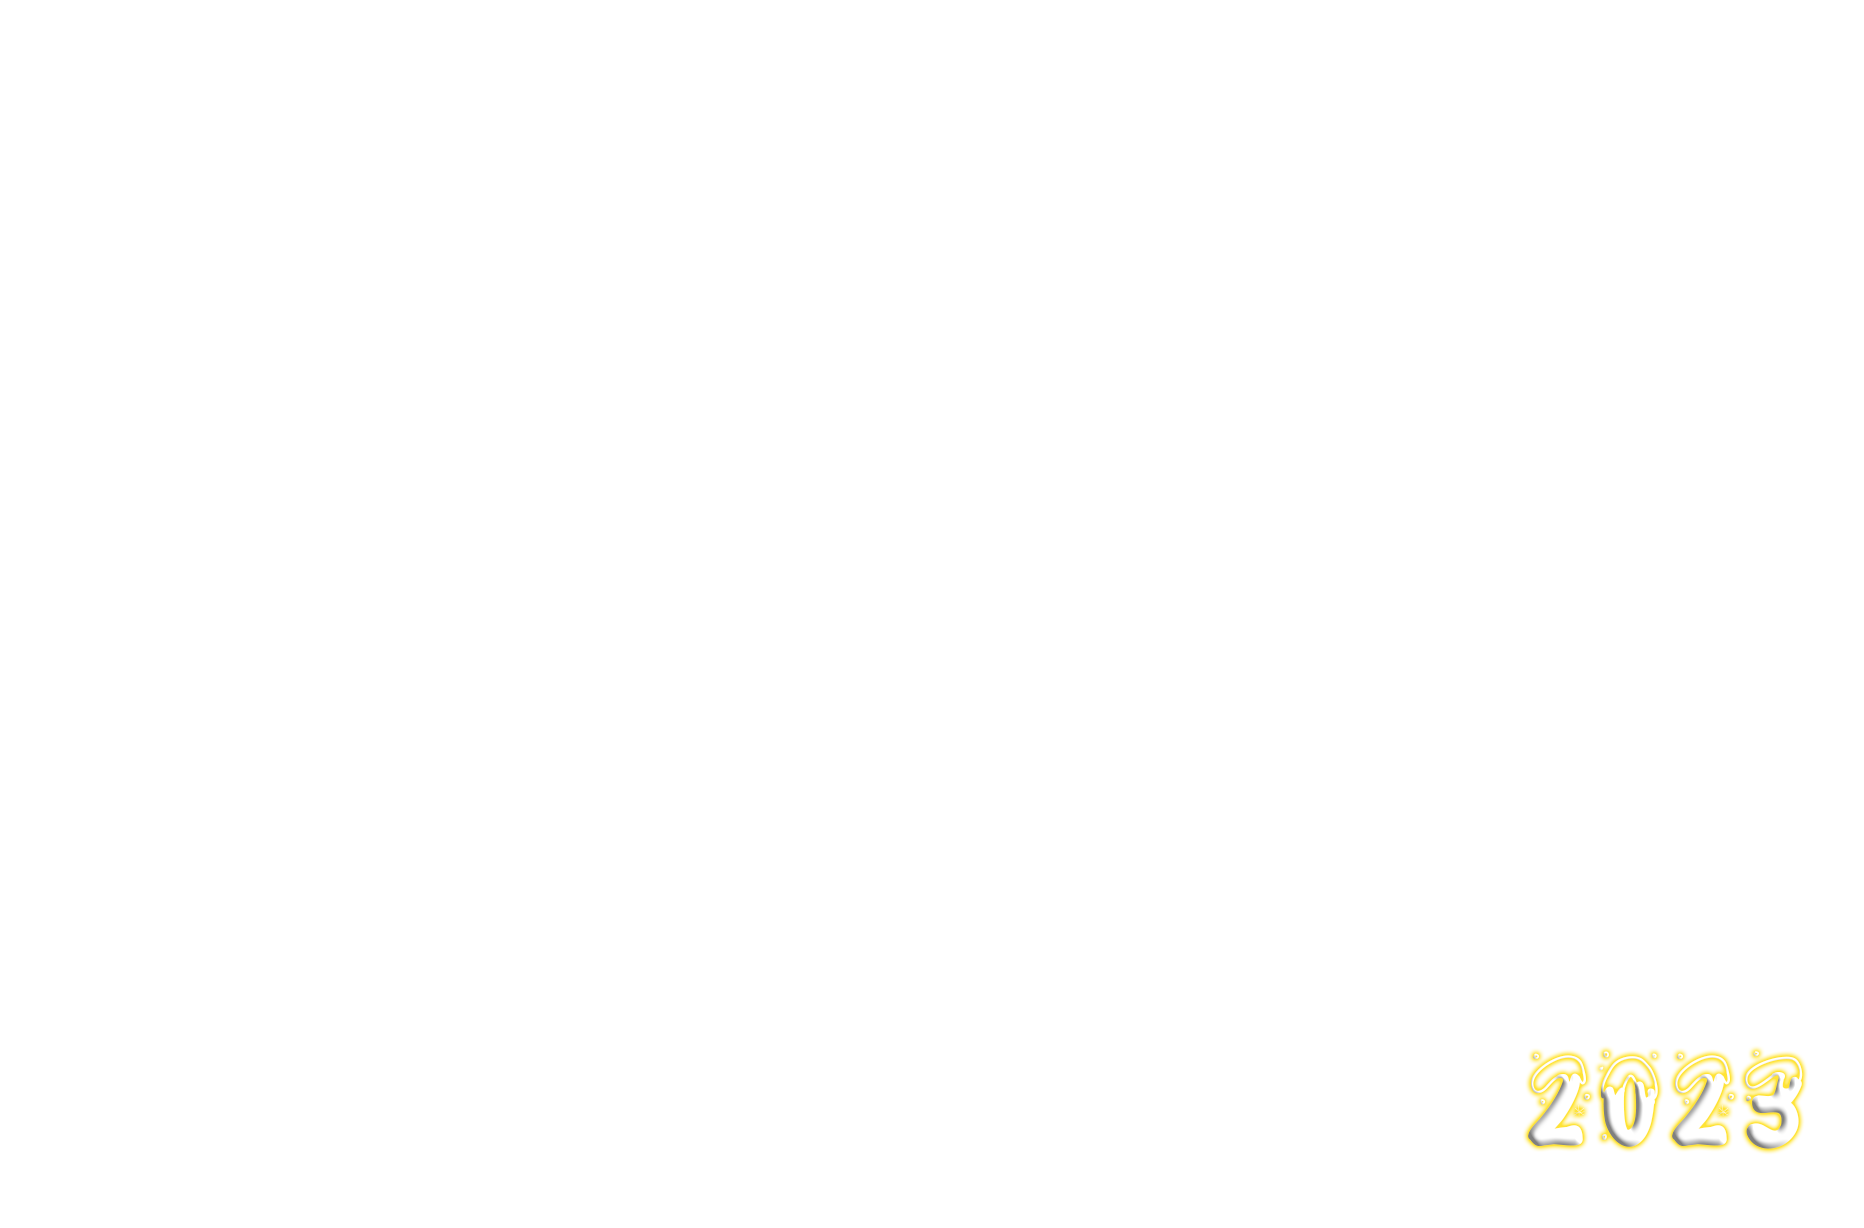
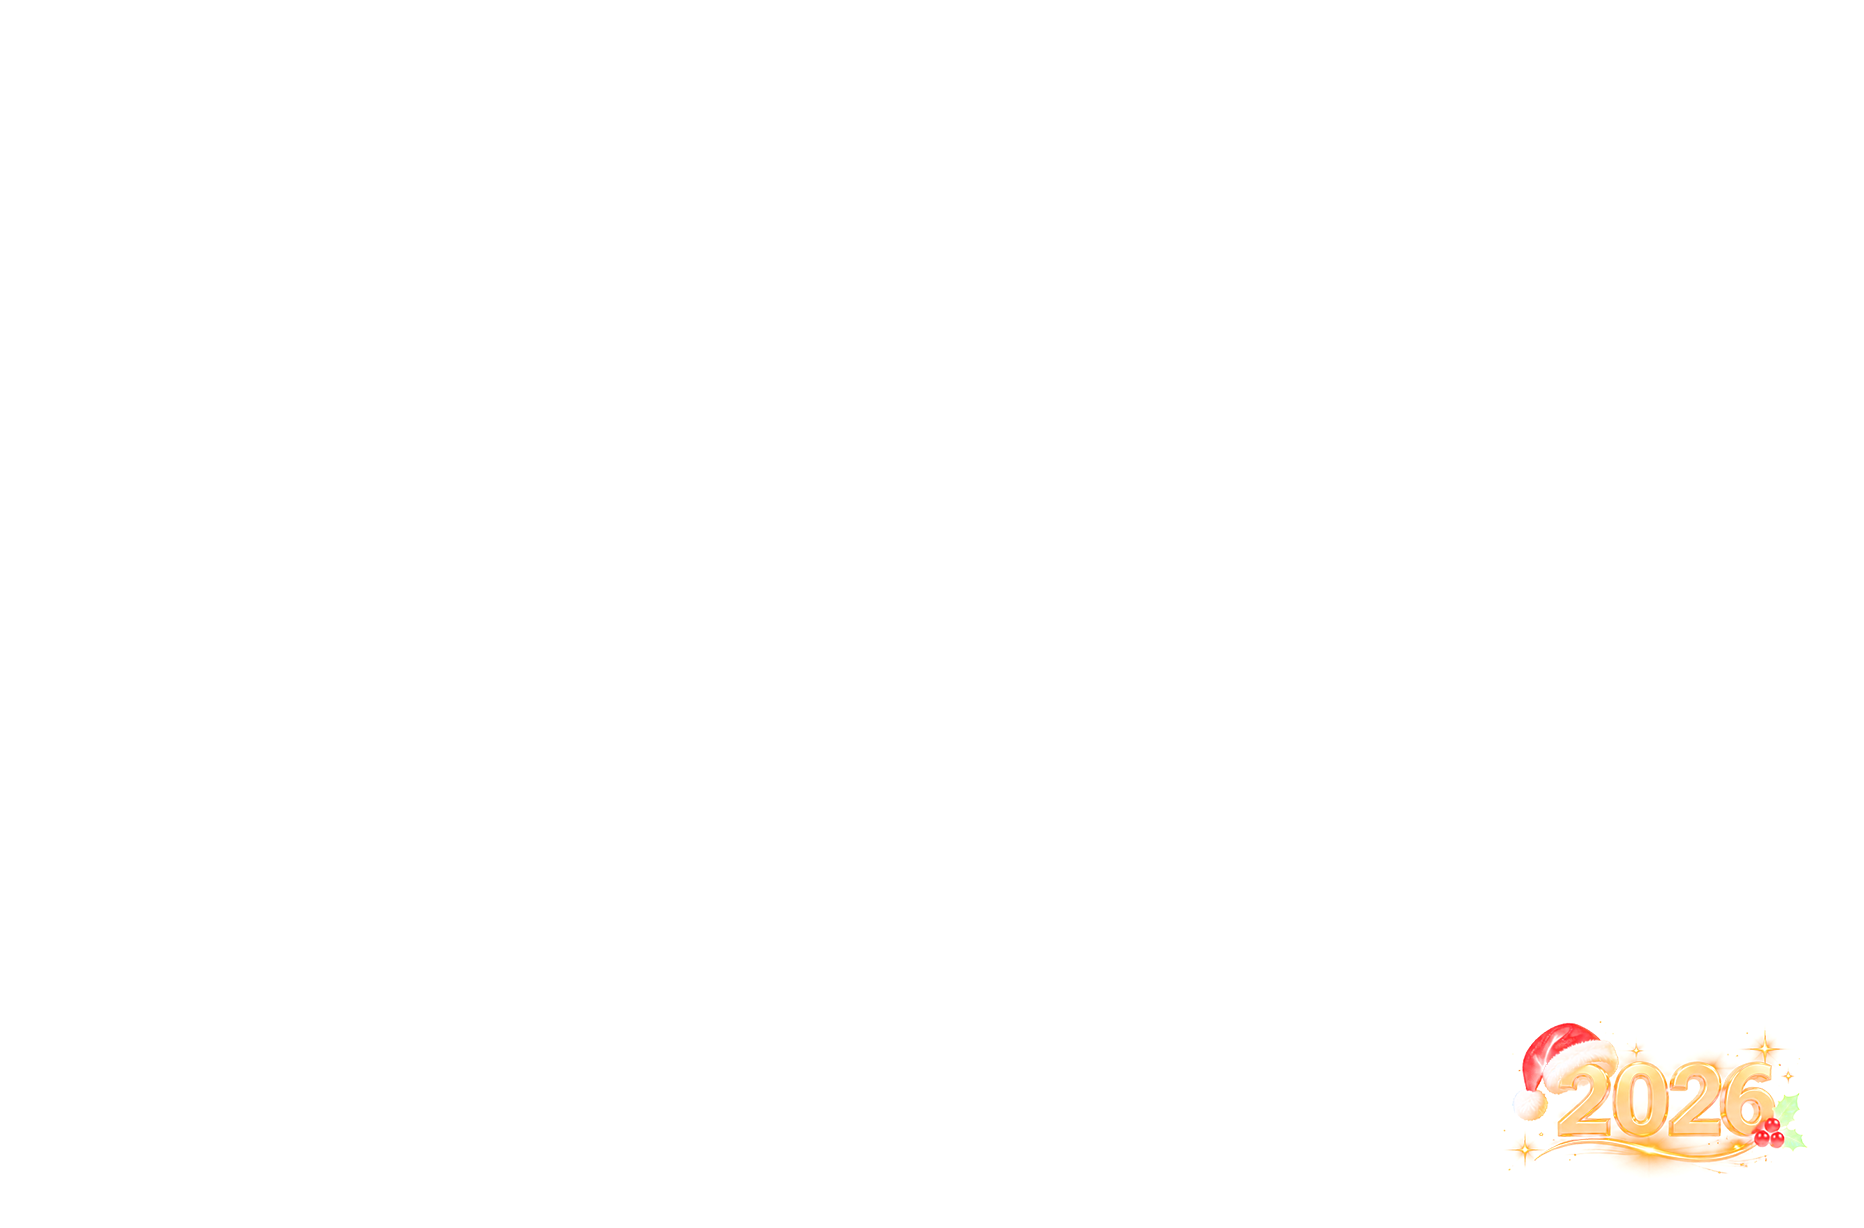
release v1.3.14: ajuste fino de angulo no enquadramento

Changed region(s): [[0.809, 0.8355, 0.9646, 0.9593]]

diff --git a/vendas.html b/vendas.html
@@ -658,11 +658,14 @@
     position:relative;
     background:#000;
     border-radius:4px;
-    overflow:hidden;
+    overflow:visible; /* handles ficam logo abaixo da foto, sem corte */
     box-shadow:var(--shadow-lift);
     cursor:grab;
     max-height:64vh;
   }
+  /* recorta a foto/moldes no tamanho exato do quadro (o box fica visível
+     para os handles aparecerem embaixo) */
+  .frame-clip{position:absolute;inset:0;overflow:hidden;border-radius:4px;}
   .frame-box:active{cursor:grabbing;}
   .frame-box.no-frame{background:transparent;box-shadow:none;cursor:default;
     width:100%;height:100%;max-height:none;border-radius:0;}
@@ -725,10 +728,28 @@
     background:var(--gold-500);border:2px solid var(--navy-950);border-radius:4px;
     z-index:5;box-shadow:0 2px 6px rgba(0,0,0,.5);
   }
-  .resize-handle.br{right:-8px;bottom:-8px;cursor:nwse-resize;}
+  .resize-handle.br{right:-8px;bottom:-10px;cursor:nwse-resize;}
   .resize-handle.tl{left:-8px;top:-8px;cursor:nwse-resize;}
   .resize-handle.tr{right:-8px;top:-8px;cursor:nesw-resize;}
   .resize-handle.bl{left:-8px;bottom:-8px;cursor:nesw-resize;}
+
+  /* handle de inclinação — arrastar para girar a foto em graus finos */
+  .rotate-handle{
+    position:absolute;right:14px;bottom:-12px;
+    width:22px;height:22px;border-radius:50%;
+    background:var(--gold-500);border:2px solid var(--navy-950);
+    color:var(--navy-950);font-size:14px;font-weight:700;line-height:18px;text-align:center;
+    z-index:6;cursor:ew-resize;box-shadow:0 2px 6px rgba(0,0,0,.5);
+    user-select:none;-webkit-user-select:none;
+  }
+  .rotate-handle:active{background:var(--gold-300);}
+  .rotate-val{
+    position:absolute;right:40px;bottom:-10px;
+    background:rgba(10,22,38,.82);border:1px solid var(--gold-500);
+    color:var(--gold-300);font-size:10px;font-weight:700;
+    padding:2px 7px;border-radius:10px;white-space:nowrap;
+    z-index:6;pointer-events:none;
+  }
 
   /* logo do shopping (overlay fixo na moldura, fora do zoom/pan da foto) */
   .shop-logo{
@@ -1546,6 +1567,7 @@ import portalApi from './shared/api/portalApi.js';
 import { connectSSE } from './shared/api/sse.js';
 import { numeroSessao } from './src/catalog.js';
 import { composePrintImage } from './shared/utils/printUtils.js';
+import { coverScaleForAngle } from './shared/utils/imageUtils.js';
 import { qrSvgTag, qrDataUrl } from './shared/utils/qr.js';
 import config from './shared/config.js';
 
@@ -1740,7 +1762,7 @@ let includeLogo = true;
 let overlayVariant = '1';
 let logoTexto = 'SHOPPING PALLADIUM'; // texto da logo do shopping (configurável nas Configurações ⚙)
 let zoom = 100, offX = 0, offY = 0;
-let rotation = 0; // giro da foto dentro da moldura: 0 | 90 | 180 | 270 (graus, sentido horário)
+let rotation = 0; // giro da foto dentro da moldura em graus (sentido horário); "Girar" anda de 90 em 90, o handle de inclinação ajusta fino
 let dragging=false, dragStart={x:0,y:0}, offStart={x:0,y:0};
 let resizing=false, resizeStart={dist:0,zoom:100};
 let cart = []; // {cartId, sessionId, fotoSeed, tipo, produtoId, label, preco, zoom, offX, offY, orientation, logo}
@@ -5461,6 +5483,14 @@ function resetCrop(){
 }
 
 let baseScale = 1; // escala exata que cobre a moldura por completo (equivalente ao "cover"), calculada a partir do pixel real da foto
+let _coverCtx = null; // { tw, th, nw, nh } do último setupCover — p/ recalcular o cover ao inclinar
+
+// Recalcula o cover com o ângulo atual (inclusive inclinação fina). Sem isso,
+// girar a foto alguns graus deixaria os cantos da moldura sem imagem.
+function recomputeBaseScale(){
+  if(!_coverCtx) return;
+  baseScale = coverScaleForAngle(_coverCtx.tw, _coverCtx.th, _coverCtx.nw, _coverCtx.nh, rotation);
+}
 
 function applyTransform(){
   const im = document.getElementById('crop-img');
@@ -5482,12 +5512,10 @@ function setupCover(im, boxW, boxH, target){
     if(!nw || !nh) return;
     const tw = target ? target.w : boxW;
     const th = target ? target.h : boxH;
-    // Com a foto girada 90°/270°, a caixa que ela ocupa na tela tem largura e
-    // altura trocadas — então o cover precisa usar as dimensões trocadas.
-    const swap = (rotation === 90 || rotation === 270);
-    const cw = swap ? nh : nw;
-    const ch = swap ? nw : nh;
-    baseScale = Math.max(tw/cw, th/ch); // cover da janela (ou do box inteiro)
+    _coverCtx = { tw, th, nw, nh };
+    // Cover exato para o ângulo atual: cobre a janela (ou o box inteiro) mesmo
+    // com inclinação fina, sem cantos vazios.
+    baseScale = coverScaleForAngle(tw, th, nw, nh, rotation);
     if(target){
       // `applyTransform` posiciona a foto a partir do CENTRO do box
       // (top/left:50% + translate(-50%,-50%)) e soma offX/offY. Então o
@@ -5611,9 +5639,16 @@ function renderFrame(){
   box.style.flexDirection = '';
   box.style.paddingTop = '';
 
+  // camada que recorta a foto/moldes no tamanho exato do quadro. O `.frame-box`
+  // fica com overflow visível para os handles (zoom/inclinação) aparecerem
+  // logo abaixo da foto, sem serem cortados.
+  const clip = document.createElement('div');
+  clip.className = 'frame-clip';
+  box.appendChild(clip);
+
   im = document.createElement('img');
   im.id='crop-img';
-  box.appendChild(im);
+  clip.appendChild(im);
   photoInto(im, 'medium', currentFoto);
   // com molde de célula, o alvo do cover é a JANELA da foto (não o cartão todo)
   setupCover(im, W, H, temMoldeCelula ? config.windowInBox(modeloDe(t), overlayVariant) : null);
@@ -5625,13 +5660,13 @@ function renderFrame(){
       const grid = document.createElement('div');
       grid.className = 'polaroid-grid'+(showOverlay?'':' hidden');
       grid.innerHTML = '<i class="gl gv1"></i><i class="gl gv2"></i><i class="gl gh1"></i><i class="gl gh2"></i>';
-      box.appendChild(grid);
+      clip.appendChild(grid);
     }
   } else {
     const vf=document.createElement('div');
     vf.className='viewfinder'+(showOverlay?'':' hidden');
     vf.innerHTML='<i class="tl"></i><i class="tr"></i><i class="bl"></i><i class="br"></i>';
-    box.appendChild(vf);
+    clip.appendChild(vf);
 
     // máscara nas 4 bordas (10x15/15x20): cobre a sobra de foto que fica
     // além dos cantos dourados, então a foto parece terminar exatamente no limite
@@ -5640,7 +5675,7 @@ function renderFrame(){
     if(showOverlay){
       const mask=document.createElement('div');
       mask.className='frame-margin-mask';
-      box.appendChild(mask);
+      clip.appendChild(mask);
     }
   }
 
@@ -5651,7 +5686,7 @@ function renderFrame(){
     moldImg.className = 'mold-overlay';
     moldImg.src = moldCelula.image;
     moldImg.alt = '';
-    box.appendChild(moldImg);
+    clip.appendChild(moldImg);
   }
 
   // a logo do shopping só nos formatos que a aceitam (10x15/15x20) — mesma
@@ -5660,7 +5695,7 @@ function renderFrame(){
     const logo=document.createElement('div');
     logo.className='shop-logo';
     logo.textContent=logoTexto;
-    box.appendChild(logo);
+    clip.appendChild(logo);
   }
 
   // handle de canto — arrasta para dar zoom mantendo proporção (uso com mouse)
@@ -5689,6 +5724,46 @@ function renderFrame(){
     applyTransform();
   });
   handle.addEventListener('pointerup', ()=>resizing=false);
+
+  // handle de inclinação — arrastar na horizontal gira a foto em graus finos
+  // (0,5° por pixel). O valor exibido é a inclinação em relação ao giro base
+  // (0/90/180/270); "Girar" continua sendo o ajuste grosso.
+  const rotHandle=document.createElement('div');
+  rotHandle.className='rotate-handle';
+  rotHandle.textContent='↻';
+  rotHandle.title='Arraste para inclinar a foto';
+  cropContainer.appendChild(rotHandle);
+  const rotVal=document.createElement('div');
+  rotVal.className='rotate-val';
+  cropContainer.appendChild(rotVal);
+  const tiltLabel = ()=>{
+    let tilt = ((rotation % 90) + 90) % 90;
+    if(tilt > 45) tilt -= 90;
+    rotVal.textContent = (Math.abs(tilt) < 0.05 ? '0' : tilt.toFixed(1)) + '°';
+  };
+  tiltLabel();
+  let rotating=false, rotateStart={x:0, angle:0, base:0};
+  rotHandle.addEventListener('pointerdown', e=>{
+    e.stopPropagation();
+    rotating=true;
+    rotateStart.x=e.clientX;
+    rotateStart.angle=rotation;
+    let tilt = ((rotation % 90) + 90) % 90;
+    if(tilt > 45) tilt -= 90;
+    rotateStart.base = rotation - tilt;
+    rotHandle.setPointerCapture(e.pointerId);
+  });
+  rotHandle.addEventListener('pointermove', e=>{
+    if(!rotating) return;
+    const delta=(e.clientX-rotateStart.x)*0.5;
+    const min=rotateStart.base-45, max=rotateStart.base+45;
+    rotation=Math.max(min, Math.min(max, rotateStart.angle+delta));
+    recomputeBaseScale();
+    applyTransform();
+    tiltLabel();
+  });
+  rotHandle.addEventListener('pointerup', ()=>rotating=false);
+  rotHandle.addEventListener('pointercancel', ()=>rotating=false);
 
   im.addEventListener('pointerdown', e=>{
     dragging=true; dragStart={x:e.clientX,y:e.clientY}; offStart={x:offX,y:offY};
@@ -5725,7 +5800,7 @@ document.getElementById('btn-orientacao').addEventListener('click', ()=>{
   renderFrame();
 });
 document.getElementById('btn-girar').addEventListener('click', ()=>{
-  rotation = (rotation + 90) % 360;
+  rotation = ((rotation + 90) % 360 + 360) % 360;
   offX=0; offY=0; // re-centraliza ao girar, mantém zoom
   renderFrame();
 });
@@ -6139,10 +6214,7 @@ function renderEnquadramentoEstatico(wrap, c){
     const nw=im.naturalWidth, nh=im.naturalHeight;
     if(!nw||!nh) return;
     const rot = ((c.rotation||0) % 360 + 360) % 360;
-    const swap = rot === 90 || rot === 270;
-    const cw = swap ? nh : nw;
-    const ch = swap ? nw : nh;
-    const base = Math.max(tw/cw, th/ch);
+    const base = coverScaleForAngle(tw, th, nw, nh, rot);
     im.style.width=nw+'px'; im.style.height=nh+'px';
     const scale = base * ((c.zoom||100)/100);
     const rotCss = rot ? ` rotate(${rot}deg)` : '';

diff --git a/shared/utils/printUtils.js b/shared/utils/printUtils.js
@@ -4,7 +4,7 @@
 // de cada foto (com molde se houver) pronto para a ASK-400.
 // ─────────────────────────────────────────────────────────────
 import config from '../config';
-import { computeAutoFit, loadImage } from './imageUtils';
+import { computeAutoFit, coverScaleForAngle, loadImage } from './imageUtils';
 import { overlayRect } from './overlayCalibration';
 
 // Converte um canvas em Blob JPEG na qualidade configurada.
@@ -130,13 +130,10 @@ export async function composePrintImage(photo) {
     // célula inteira quando não há janela medida (10x15/15x20), o que preserva
     // o comportamento antigo sem nenhum desvio.
     const win = config.getOverlayWindow(photo.key, photo.overlayVariant);
-    // Giro de 90°/270° troca a largura/altura que a foto ocupa — o cover tem
-    // de usar as dimensões efetivas (trocadas), igual ao setupCover da tela.
-    const angPdv = ((photo.angle ?? 0) % 360 + 360) % 360;
-    const swapPdv = angPdv === 90 || angPdv === 270;
-    const effW = swapPdv ? origH : origW;
-    const effH = swapPdv ? origW : origH;
-    const cover = Math.max(win.w / effW, win.h / effH) * 100;
+    // O cover é calculado com o MESMO ângulo usado na tela (inclusive
+    // inclinação fina): assim a foto cobre a janela sem deixar canto vazio,
+    // idêntico ao setupCover do editor.
+    const cover = coverScaleForAngle(win.w, win.h, origW, origH, photo.angle ?? 0) * 100;
     const sd = cover * ((photo.scale ?? 100) / 100);
     const dw = (origW * sd) / 100;
     const dh = (origH * sd) / 100;

diff --git a/shared/utils/imageUtils.js b/shared/utils/imageUtils.js
@@ -7,6 +7,26 @@ export function findBestScale(frameW, frameH, imgW, imgH) {
   return Math.max((frameW / imgW) * 100, (frameH / imgH) * 100);
 }
 
+// Escala (multiplicador, 1 = tamanho natural) necessária para a imagem
+// `cw x ch` girar `angleDeg` em torno do centro e ainda cobrir o retângulo
+// `tw x th`. Para ângulos múltiplos de 90° dá exatamente o cover antigo
+// (max(tw/cw, th/ch) com as dimensões trocadas quando preciso); para ângulos
+// finos compensa os cantos que apareceriam ao inclinar a foto.
+export function coverScaleForAngle(tw, th, cw, ch, angleDeg) {
+  if (!tw || !th || !cw || !ch) return 1;
+  const rad = ((angleDeg || 0) * Math.PI) / 180;
+  const cos = Math.cos(rad), sin = Math.sin(rad);
+  const hx = tw / 2, hy = th / 2;
+  let scale = 0;
+  for (const [x, y] of [[-hx, -hy], [hx, -hy], [hx, hy], [-hx, hy]]) {
+    // canto do alvo levado para o sistema da imagem (gira -ângulo)
+    const lx = x * cos + y * sin;
+    const ly = -x * sin + y * cos;
+    scale = Math.max(scale, Math.abs(lx) / (cw / 2), Math.abs(ly) / (ch / 2));
+  }
+  return scale || 1;
+}
+
 // Auto-fit: calcula escala, centralização e rotação automáticas para encaixar a
 // foto no quadro sem deixar áreas vazias (cover). Usada pelo editor, previews e impressão.
 export function computeAutoFit(naturalW, naturalH, frameW, frameH) {
